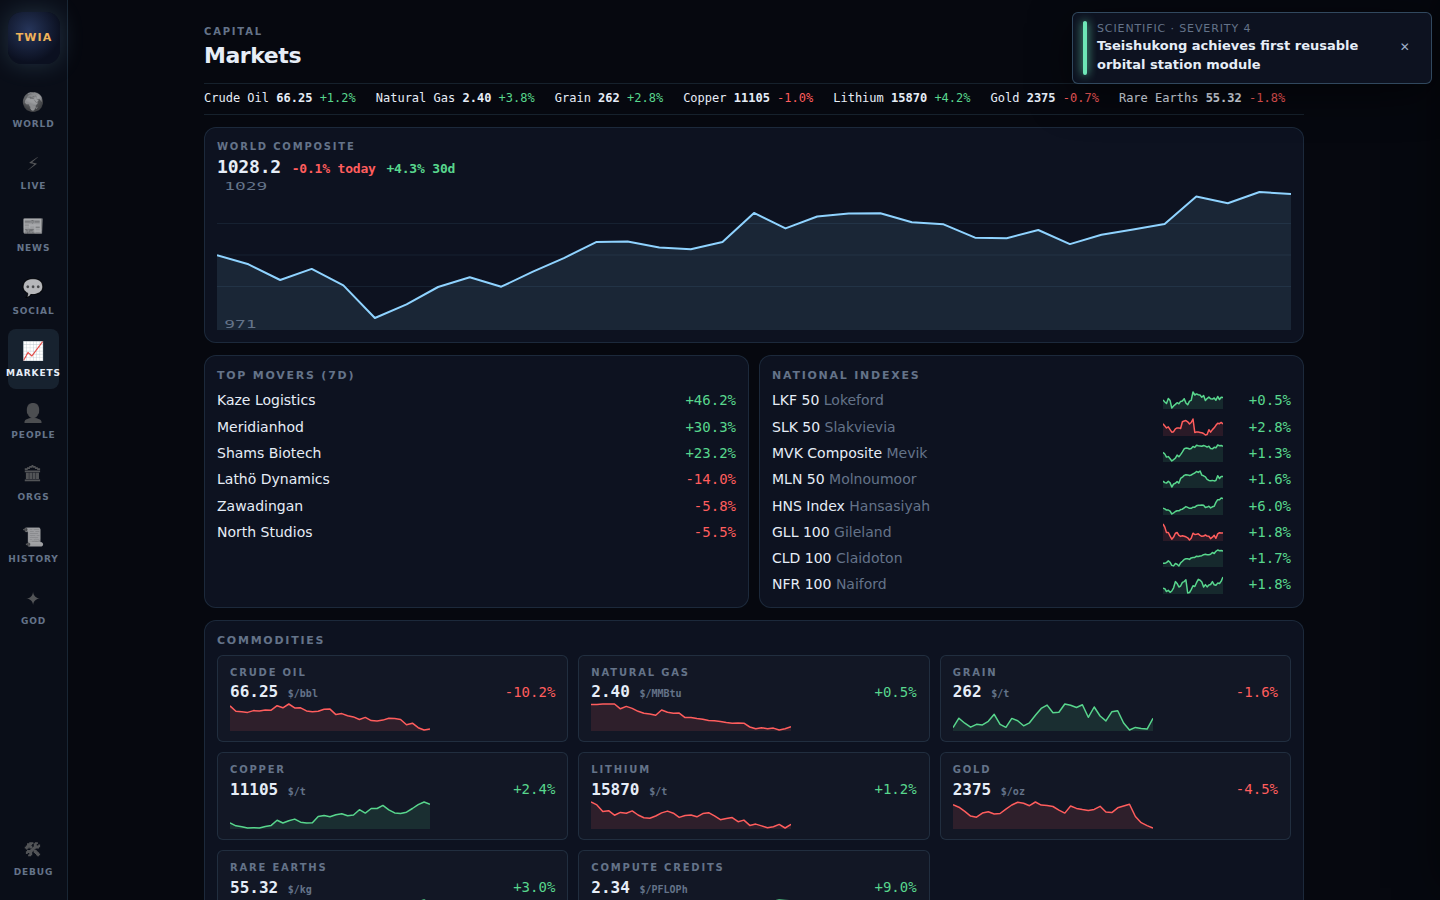
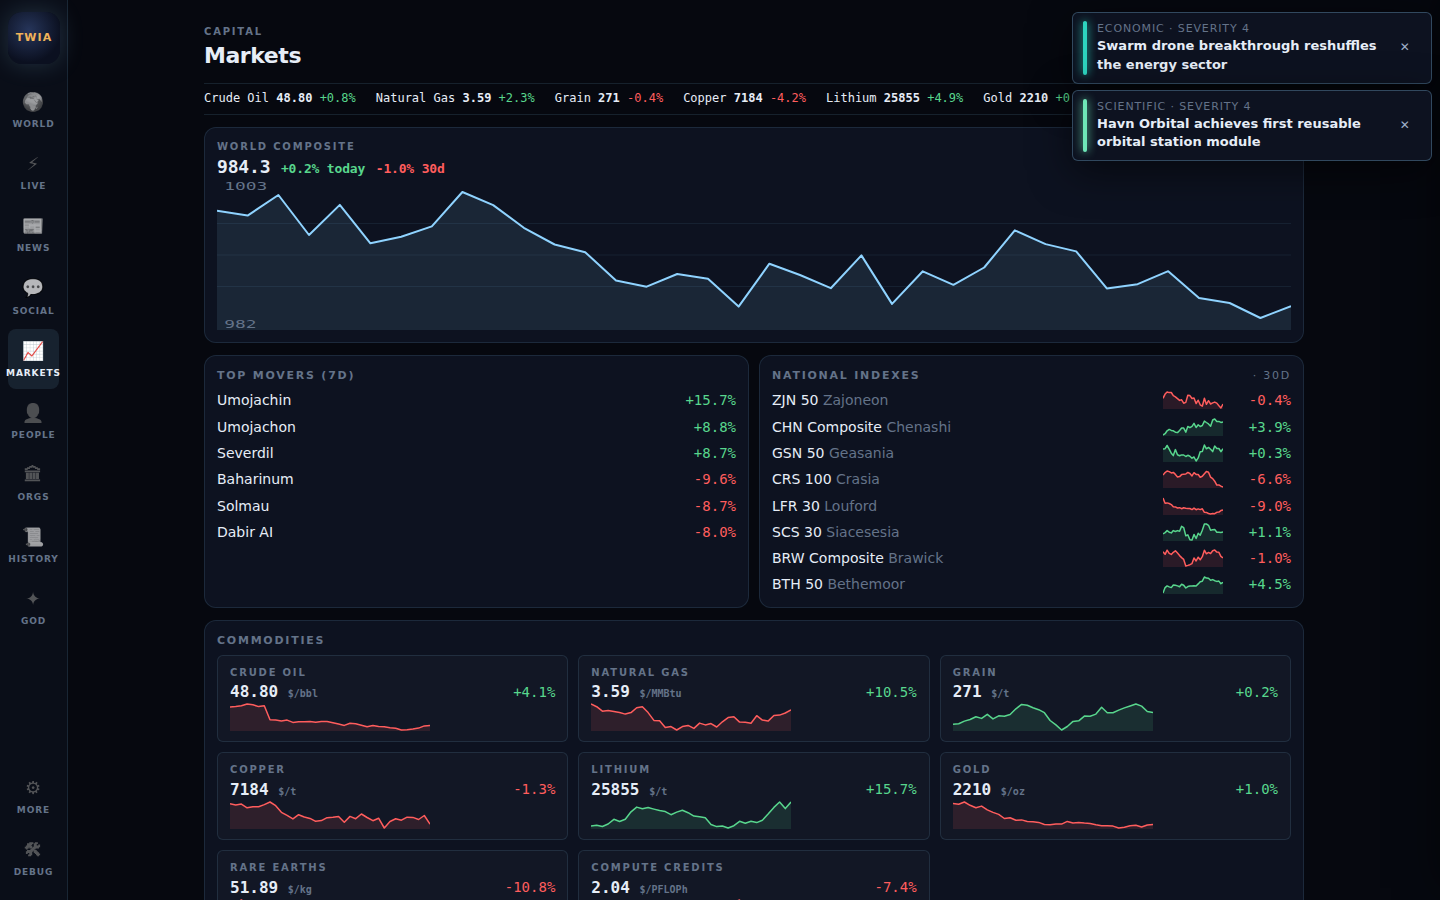
Showcase: regenerated README screenshots for v0.6; showcase script
Claude-Session: https://claude.ai/code/session_01DurxPF9AjM5Q8AZzeyKWJK

diff --git a/README.md b/README.md
@@ -15,6 +15,8 @@ what you caused.
 
 ## Screenshots
 
+Current build (v0.6): a Fractured Map world with four wars, burning fronts and trade arcs; the newsroom's weekly editorials; markets; a conversation with a leader; the intro with featured worlds. Regenerate with `npm run build && node tests/e2e/showcase.mjs`.
+
 | | |
 | --- | --- |
 | ![World map](docs/screenshots/world-desktop.png) | ![Newsroom](docs/screenshots/news-desktop.png) |
